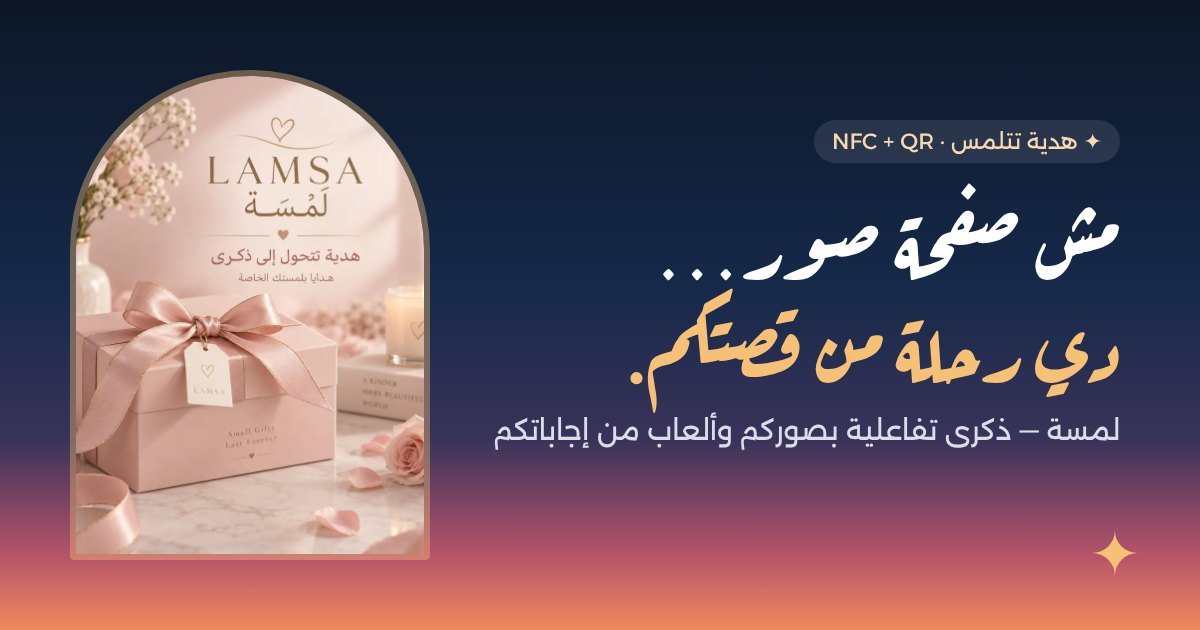
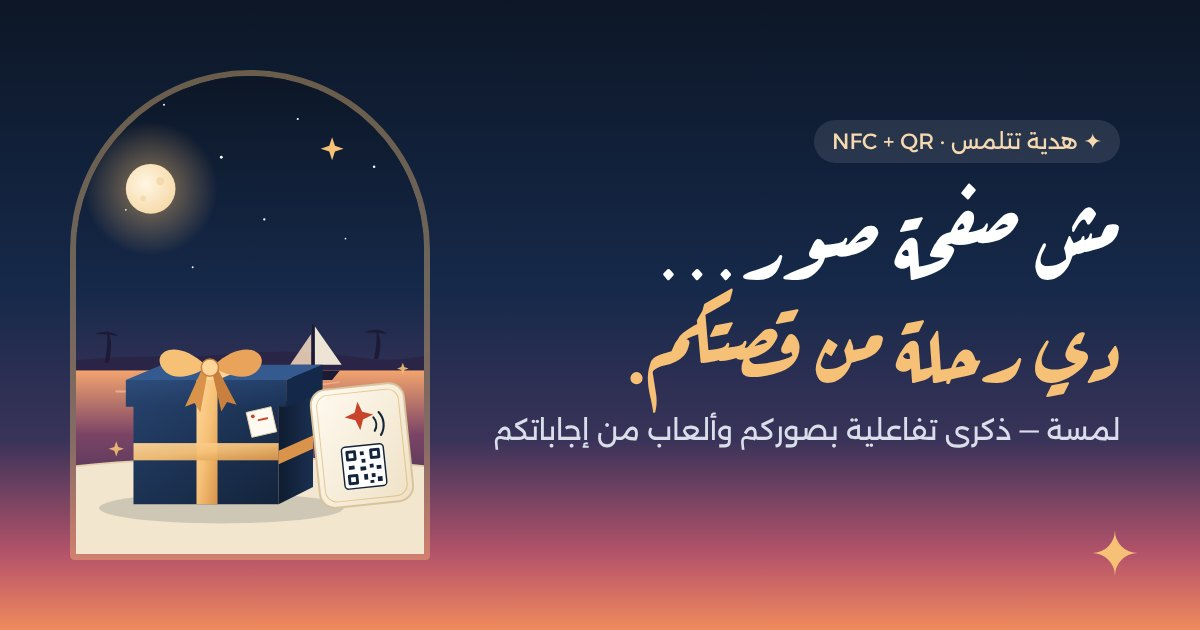
Replace pink gift photos with Nile Sunset illustrations
- Hero: new SVG scene (navy gift box, apricot ribbon, LAMSA NFC+QR piece, Nile at sunset with felucca and moon)
- Gift section: NFC tap and QR scan illustrations with captions
- WhatsApp/OG share image re-rendered with the new scene
- Old pink photos are no longer shipped (kept in repo history only)

Claude-Session: https://claude.ai/code/session_018XiVXjBFVVyfNLjTc34EMK

Changed region(s): [[0.0617, 0.1206, 0.37, 0.9048]]

diff --git a/index.html b/index.html
@@ -25,7 +25,7 @@
 <link rel="manifest" href="/site.webmanifest">
 <link rel="preload" href="/assets/fonts/alexandria-ar-400.woff2" as="font" type="font/woff2" crossorigin>
 <link rel="preload" href="/assets/fonts/ruqaa-ar-700.woff2" as="font" type="font/woff2" crossorigin>
-<link rel="preload" href="/assets/img/lamsa-pink-hero-640.webp" as="image" media="(max-width:640px)">
+<link rel="preload" href="/assets/img/scene-gift.svg" as="image">
 <link rel="stylesheet" href="/assets/css/lamsa-ds.css">
 <link rel="stylesheet" href="/assets/css/home.css">
 <script type="application/ld+json">{"@context":"https://schema.org","@graph":[{"@type":"Organization","@id":"https://lamsagift.pages.dev/#org","name":"LAMSA لمسة","url":"https://lamsagift.pages.dev/","logo":"https://lamsagift.pages.dev/assets/img/icon-512.png","contactPoint":{"@type":"ContactPoint","contactType":"customer support","url":"https://wa.me/201588889741","availableLanguage":["ar"]}},{"@type":"Service","name":"هدية ذكرى رقمية تفاعلية مع NFC وQR","provider":{"@id":"https://lamsagift.pages.dev/#org"},"areaServed":"EG","serviceType":"هدايا شخصية رقمية","description":"قطعة هدية بشريحة NFC وكود QR تفتح صفحة ذكرى خاصة فيها صور ورسائل وأغنية وألعاب مبنية من قصة العميل."},{"@type":"FAQPage","mainEntity":[{"@type":"Question","name":"هل الهدية محتاجة تطبيق؟","acceptedAnswer":{"@type":"Answer","text":"لا. المستلم يلمس القطعة بالموبايل أو يمسح الـQR والذكرى تفتح في المتصفح مباشرة."}},{"@type":"Question","name":"هل تعمل على آيفون وأندرويد؟","acceptedAnswer":{"@type":"Answer","text":"أيوه. الـQR يعمل على أي موبايل بكاميرا، والـNFC مدعوم في أغلب موبايلات Android وiPhone XS وما بعده."}},{"@type":"Question","name":"هل الرابط خاص؟","acceptedAnswer":{"@type":"Answer","text":"كل ذكرى لها رابط طويل غير قابل للتخمين، ولا تظهر في محركات البحث، ويمكن حمايتها بسؤال سري."}}]}]}</script>
@@ -63,10 +63,7 @@
       <div class="h-hero-visual">
         <svg class="h-constellation" aria-hidden="true" viewBox="0 0 220 200"><path d="M110 178 L40 104 Q14 72 36 44 Q62 16 96 36 L110 52 L124 36 Q158 16 184 44 Q206 72 180 104 Z" fill="none" stroke="rgba(246,193,119,.55)" stroke-width="1" stroke-dasharray="3 6"/><g fill="#f6c177"><circle cx="110" cy="178" r="3"/><circle cx="40" cy="104" r="2.4"/><circle cx="36" cy="44" r="2.8"/><circle cx="96" cy="36" r="2.2"/><circle cx="110" cy="52" r="3.2"/><circle cx="124" cy="36" r="2.2"/><circle cx="184" cy="44" r="2.8"/><circle cx="180" cy="104" r="2.4"/></g></svg>
         <div class="h-arch">
-          <picture>
-            <source media="(max-width:640px)" srcset="/assets/img/lamsa-pink-hero-640.webp">
-            <img src="/assets/img/lamsa-pink-hero-960.webp" width="768" height="960" alt="بوكس هدية لمسة مع قطعة الذكرى" fetchpriority="high">
-          </picture>
+          <img src="/assets/img/scene-gift.svg" width="400" height="500" alt="رسمة توضيحية: علبة هدية لمسة وقطعة NFC وQR أمام النيل وقت الغروب" fetchpriority="high">
         </div>
         <div class="h-phone" aria-hidden="true">
           <div class="h-phone-notch"></div>
@@ -129,9 +126,8 @@
   <section id="gift" class="h-sec" aria-labelledby="gift-title">
     <div class="l-shell h-gift-grid">
       <div class="h-gift-media" data-reveal>
-        <figure class="h-gift-main"><img src="/assets/wow-demo/p-box.webp" alt="بوكس هدية لمسة جاهز للإهداء" loading="lazy" decoding="async" width="600" height="600"></figure>
-        <figure><img src="/assets/wow-demo/p-phone.webp" alt="ذكرى لمسة مفتوحة على الموبايل" loading="lazy" decoding="async" width="600" height="600"></figure>
-        <figure><img src="/assets/wow-demo/p-gift.webp" alt="تفاصيل تغليف هدية لمسة" loading="lazy" decoding="async" width="600" height="600"></figure>
+        <figure><img src="/assets/img/scene-tap.svg" alt="رسمة: الموبايل بيلمس قطعة لمسة فتفتح الذكرى" loading="lazy" decoding="async" width="400" height="400"><figcaption>المس بالموبايل (NFC)</figcaption></figure>
+        <figure><img src="/assets/img/scene-qr.svg" alt="رسمة: كاميرا الموبايل بتمسح كود QR على قطعة لمسة" loading="lazy" decoding="async" width="400" height="400"><figcaption>أو امسح الـQR</figcaption></figure>
       </div>
       <div data-reveal>
         <span class="l-eyebrow">الهدية الملموسة</span>

diff --git a/assets/css/home.css b/assets/css/home.css
@@ -38,7 +38,7 @@
 .h-promises{display:flex;flex-wrap:wrap;gap:8px 18px;list-style:none;margin:0;padding:0;font-size:14px;color:#dfe4ee;font-weight:600}
 .h-promises span{color:var(--l-apricot)}
 .h-hero-visual{position:relative;max-width:480px;width:100%;margin-inline:auto;padding:30px 0 10px}
-.h-arch{width:78%;margin-inline-start:auto;aspect-ratio:4/5;border-radius:999px 999px 26px 26px;overflow:hidden;border:6px solid rgba(246,193,119,.35);box-shadow:0 0 0 1px rgba(255,255,255,.12),0 40px 90px rgba(0,0,0,.45)}
+.h-arch{width:78%;margin-inline-start:auto;aspect-ratio:4/5;background:#16294a;border-radius:999px 999px 26px 26px;overflow:hidden;border:6px solid rgba(246,193,119,.35);box-shadow:0 0 0 1px rgba(255,255,255,.12),0 40px 90px rgba(0,0,0,.45)}
 .h-arch img{width:100%;height:100%;object-fit:cover;display:block}
 .h-constellation{position:absolute;top:-6px;inset-inline-start:-2%;width:46%;z-index:2;filter:drop-shadow(0 0 6px rgba(246,193,119,.6))}
 .h-phone{position:absolute;inset-inline-start:0;bottom:-26px;width:min(52%,224px);padding:16px 12px 18px;border-radius:30px;background:linear-gradient(170deg,#1f3a5f,#0c1626);color:#eef1f7;border:5px solid #08101c;box-shadow:var(--l-shadow-lg);display:grid;gap:6px;text-align:center;z-index:3}
@@ -127,7 +127,9 @@
 .h-gift-media{display:grid;grid-template-columns:1fr 1fr;gap:12px}
 .h-gift-media figure{margin:0;overflow:hidden;background:var(--l-sand);border-radius:var(--l-r-lg)}
 .h-gift-media img{width:100%;height:100%;object-fit:cover;aspect-ratio:1;display:block}
-.h-gift-main{grid-column:1/-1;border-radius:999px 999px var(--l-r-lg) var(--l-r-lg)!important}.h-gift-main img{aspect-ratio:16/11}
+.h-gift-media figure{position:relative;box-shadow:var(--l-shadow-sm)}
+.h-gift-media figure:first-child{border-radius:999px 999px var(--l-r-lg) var(--l-r-lg)}
+.h-gift-media figcaption{position:absolute;inset-inline:10px;bottom:10px;padding:6px 10px;border-radius:999px;background:rgba(19,35,59,.85);color:#fff;font-size:13px;text-align:center}
 .h-open{margin:18px 0;padding:0;list-style:none;display:grid;gap:12px;counter-reset:o}
 .h-open li{counter-increment:o;position:relative;padding-inline-start:46px}
 .h-open li::before{content:counter(o,arabic-indic);position:absolute;inset-inline-start:0;top:0;width:32px;height:32px;border-radius:50%;display:grid;place-items:center;background:var(--l-sand);color:var(--l-coral);font-weight:700}

diff --git a/tools/og.html b/tools/og.html
@@ -8,5 +8,5 @@ h1{font-family:var(--l-display);font-size:86px;line-height:1.2;margin:24px 0 0;c
 h1 span{display:block;color:#f6c177}
 p{font-size:28px;color:#d9deea;margin:20px 0 0}
 .s{position:absolute;color:#f6c177;font-size:60px;inset-inline-start:60px;bottom:40px}
-</style></head><body><div class="a"><img src="/assets/img/lamsa-pink-hero-960.webp" alt=""></div>
+</style></head><body><div class="a"><img src="/assets/img/scene-gift.svg" alt=""></div>
 <div class="t"><span class="k">✦ هدية تتلمس · NFC + QR</span><h1>مش صفحة صور…<span>دي رحلة من قصتكم.</span></h1><p>لمسة — ذكرى تفاعلية بصوركم وألعاب من إجاباتكم</p></div><div class="s">✦</div></body></html>
